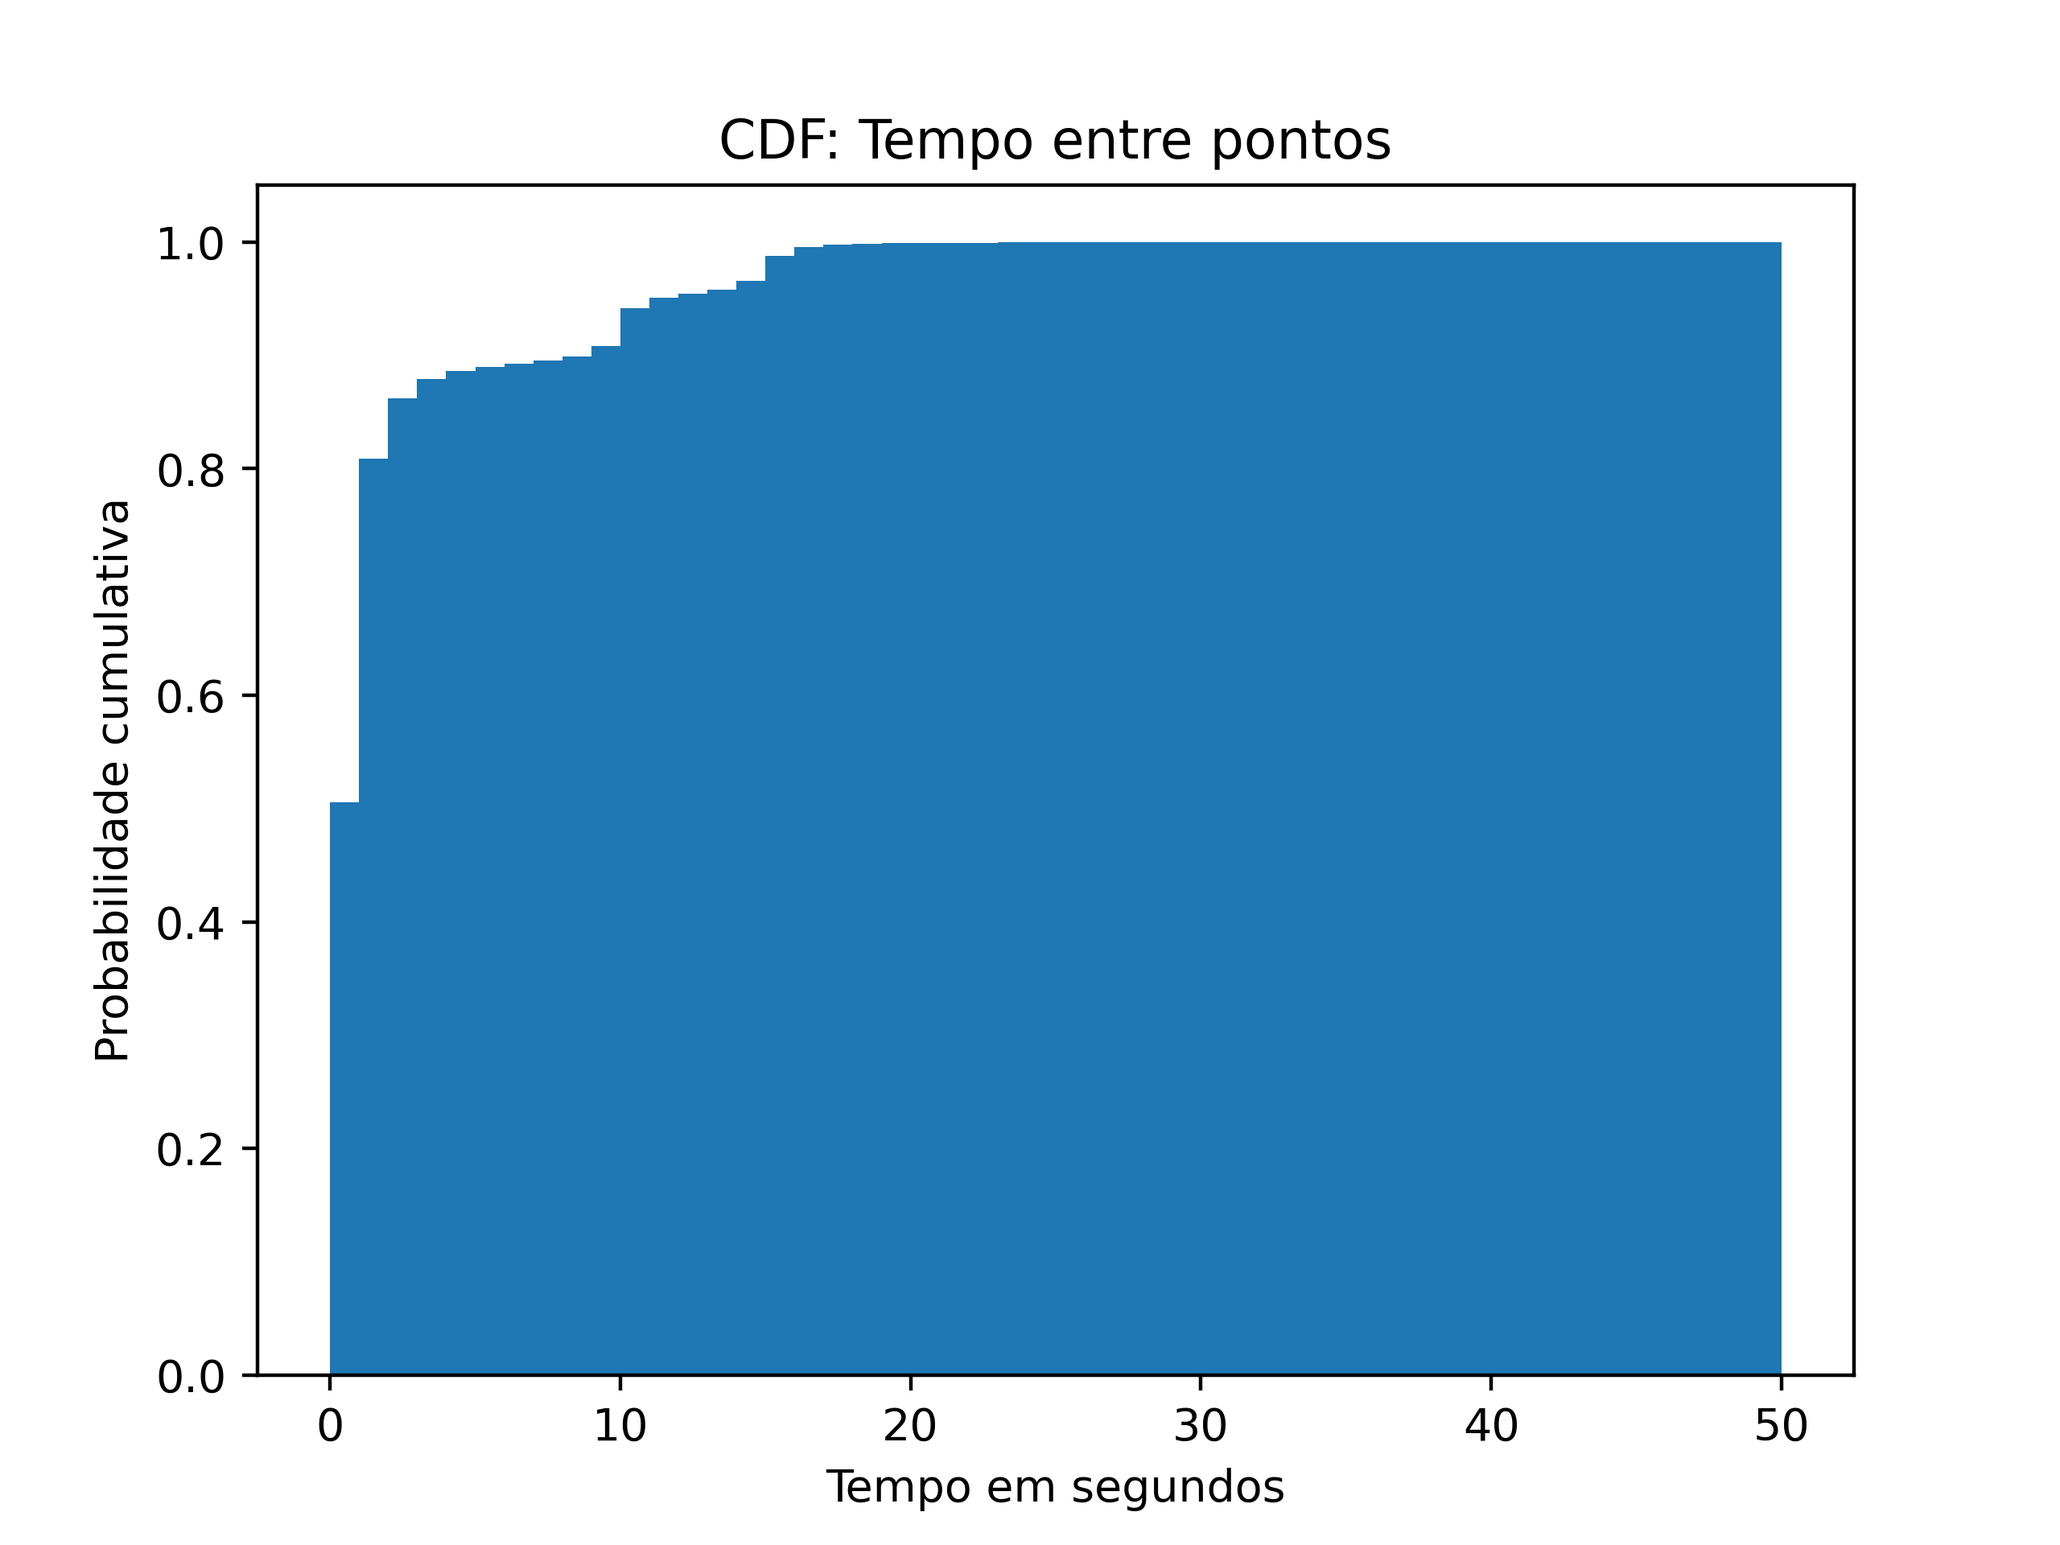
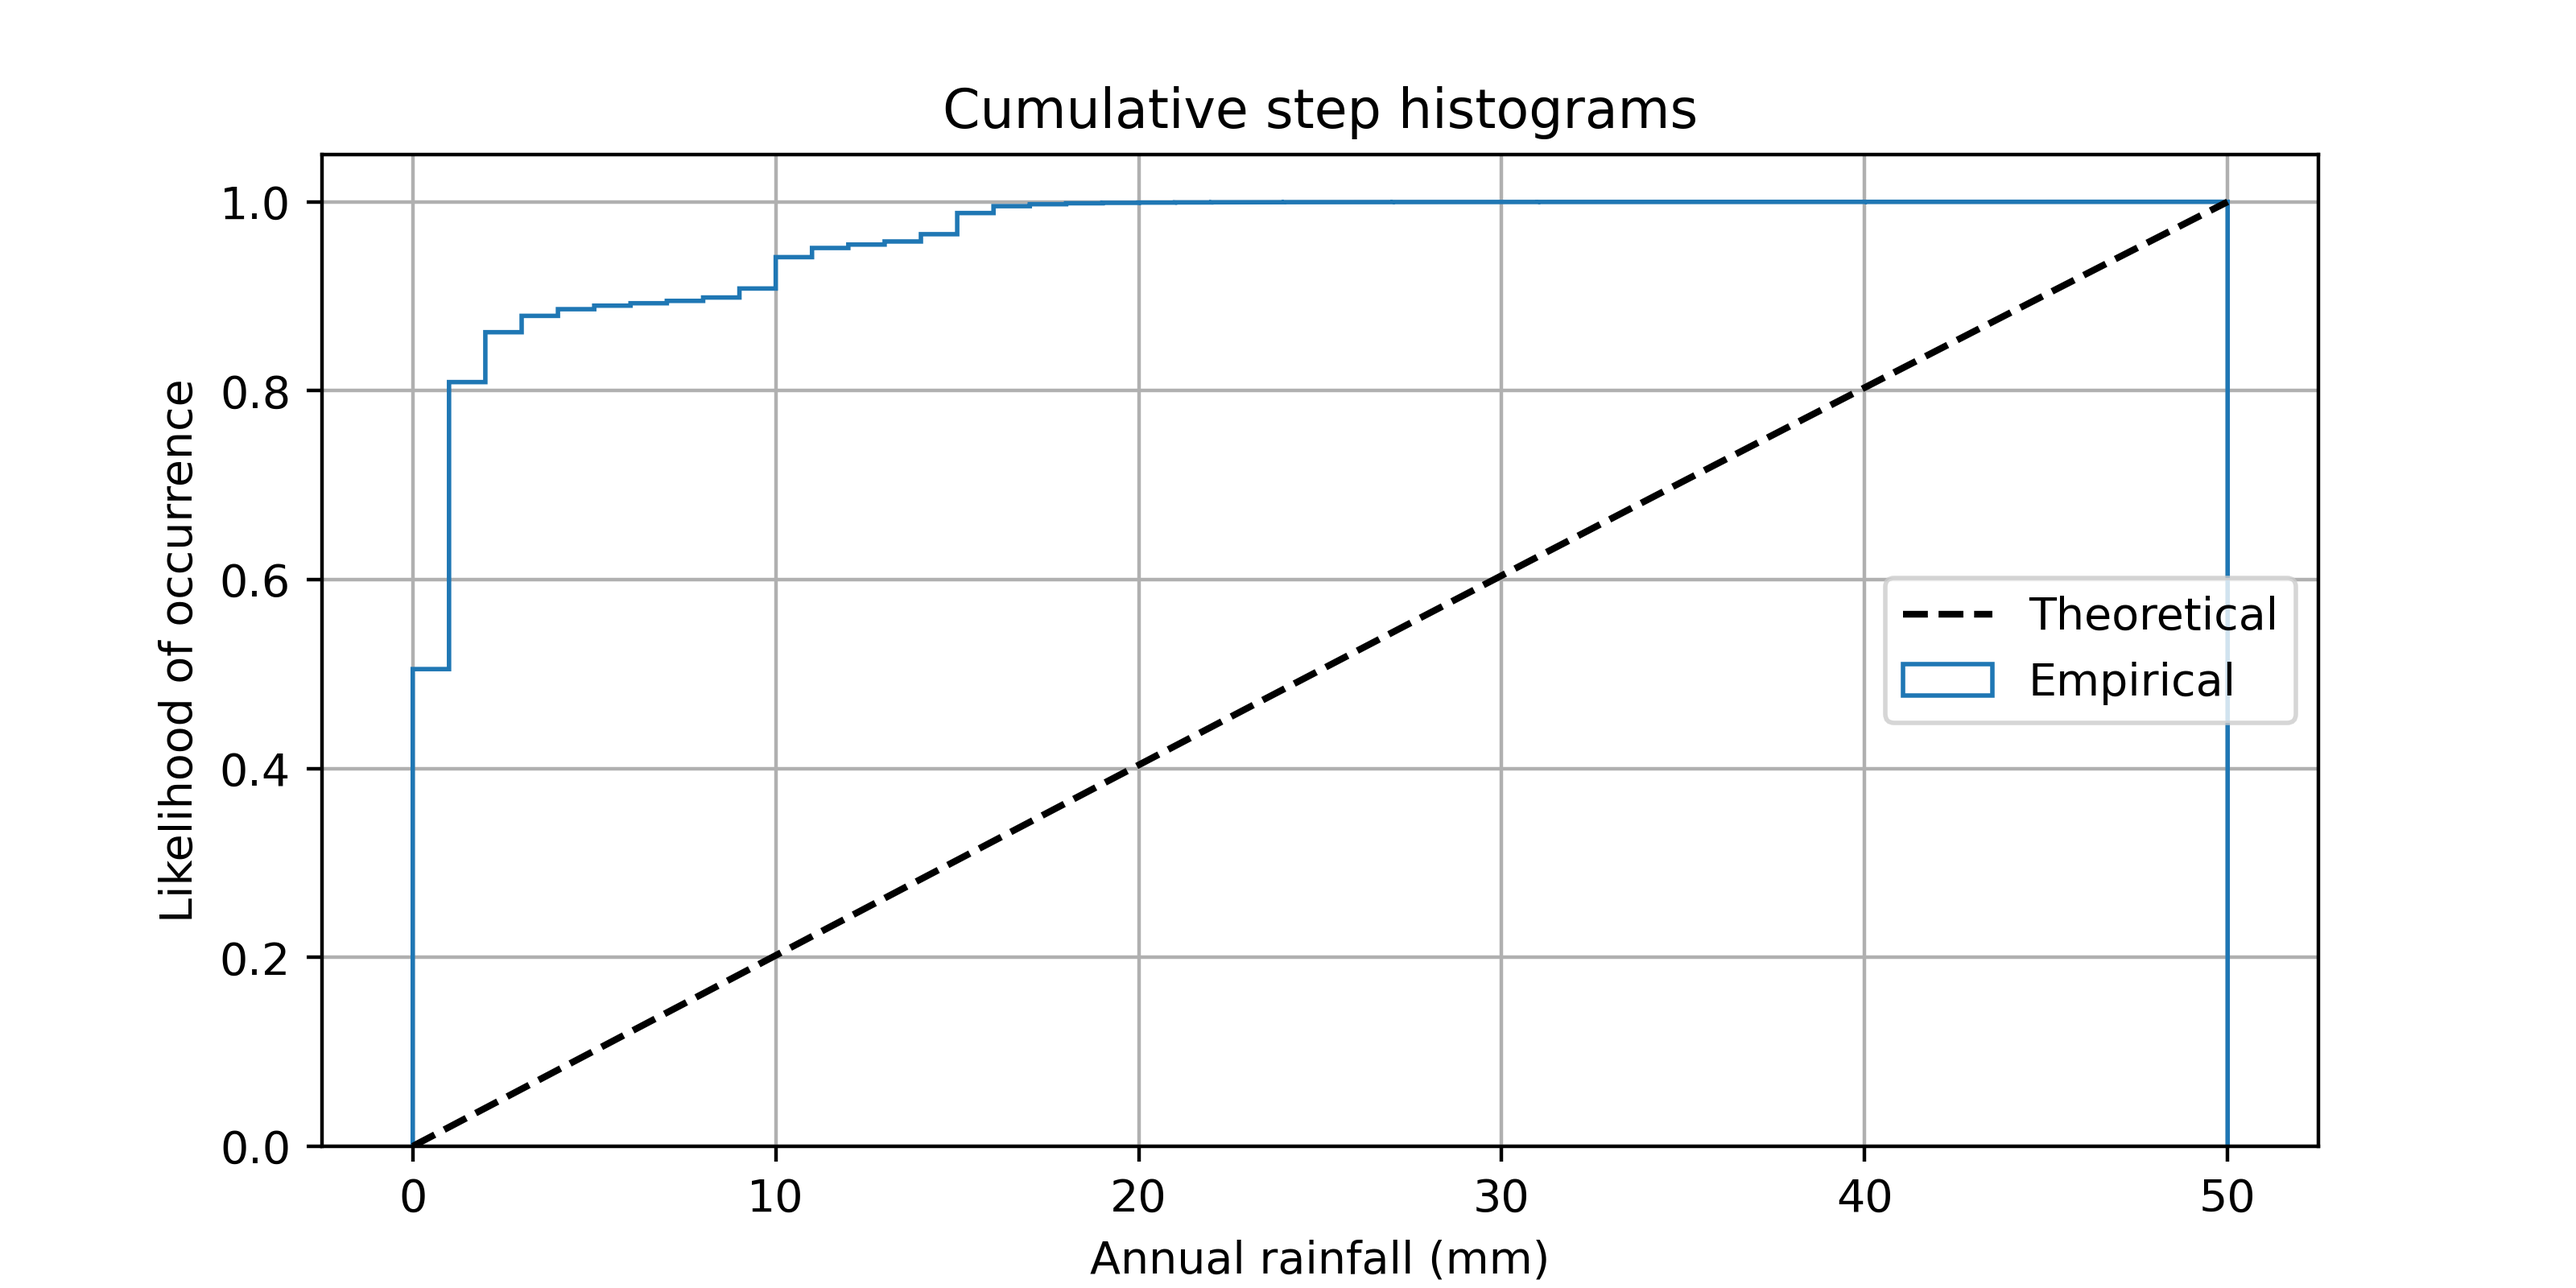
Testes com plotagem de CDF

diff --git a/src/staypointDetection.py b/src/staypointDetection.py
@@ -4,6 +4,7 @@
 from datetime import datetime
 from datetime import timedelta
 from ponto import Ponto
+from scipy.stats import norm
 import csv
 import math
 import matplotlib.pyplot as plt
@@ -33,13 +34,33 @@ limitTempo = timedelta(seconds=10)
 def cdfTempo():
     """Função que plota uma cdf com os dados de distancia entre pontos de todos veículos"""
     # getting data of the histogram 
-    
     timeGapsDiscrete = list(map(int, allTimeGaps))
+
+    sigma = np.std(timeGapsDiscrete)
+    n_bins = 10000
+    mu = sum(timeGapsDiscrete)/len(timeGapsDiscrete)
+    print(sigma)
+    print(mu)
+
+    fig, ax = plt.subplots(figsize=(8, 4))
     
-    plt.hist(timeGapsDiscrete, bins=10000,density=True,cumulative=True,range=(0,50))
-    plt.title('CDF: Tempo entre pontos')
-    plt.xlabel('Tempo em segundos')
-    plt.ylabel('Probabilidade cumulativa')
+    #n, bins, patches = ax.hist(timeGapsDiscrete, bins=n_bins,density=True,cumulative=True,range=(0,50))
+    #plt.title('CDF: Tempo entre pontos')
+    #plt.xlabel('Tempo em segundos')
+    #plt.ylabel('Probabilidade cumulativa')
+    _,bins,_ = ax.hist(timeGapsDiscrete, n_bins, density=True, histtype='step',cumulative=True, label='Empirical',range=(0,50))
+
+    y = norm.pdf(bins, mu, sigma).cumsum()
+    y /= y[-1]
+
+    ax.plot(bins, y, 'k--', linewidth=1.5, label='Theoretical')
+
+    ax.grid(True)
+    ax.legend(loc='right')
+    ax.set_title('Cumulative step histograms')
+    ax.set_xlabel('Annual rainfall (mm)')
+    ax.set_ylabel('Likelihood of occurrence')
+
     plt.savefig(path+'/img/cdfTempo.png',dpi=400)
     plt.show()
 
